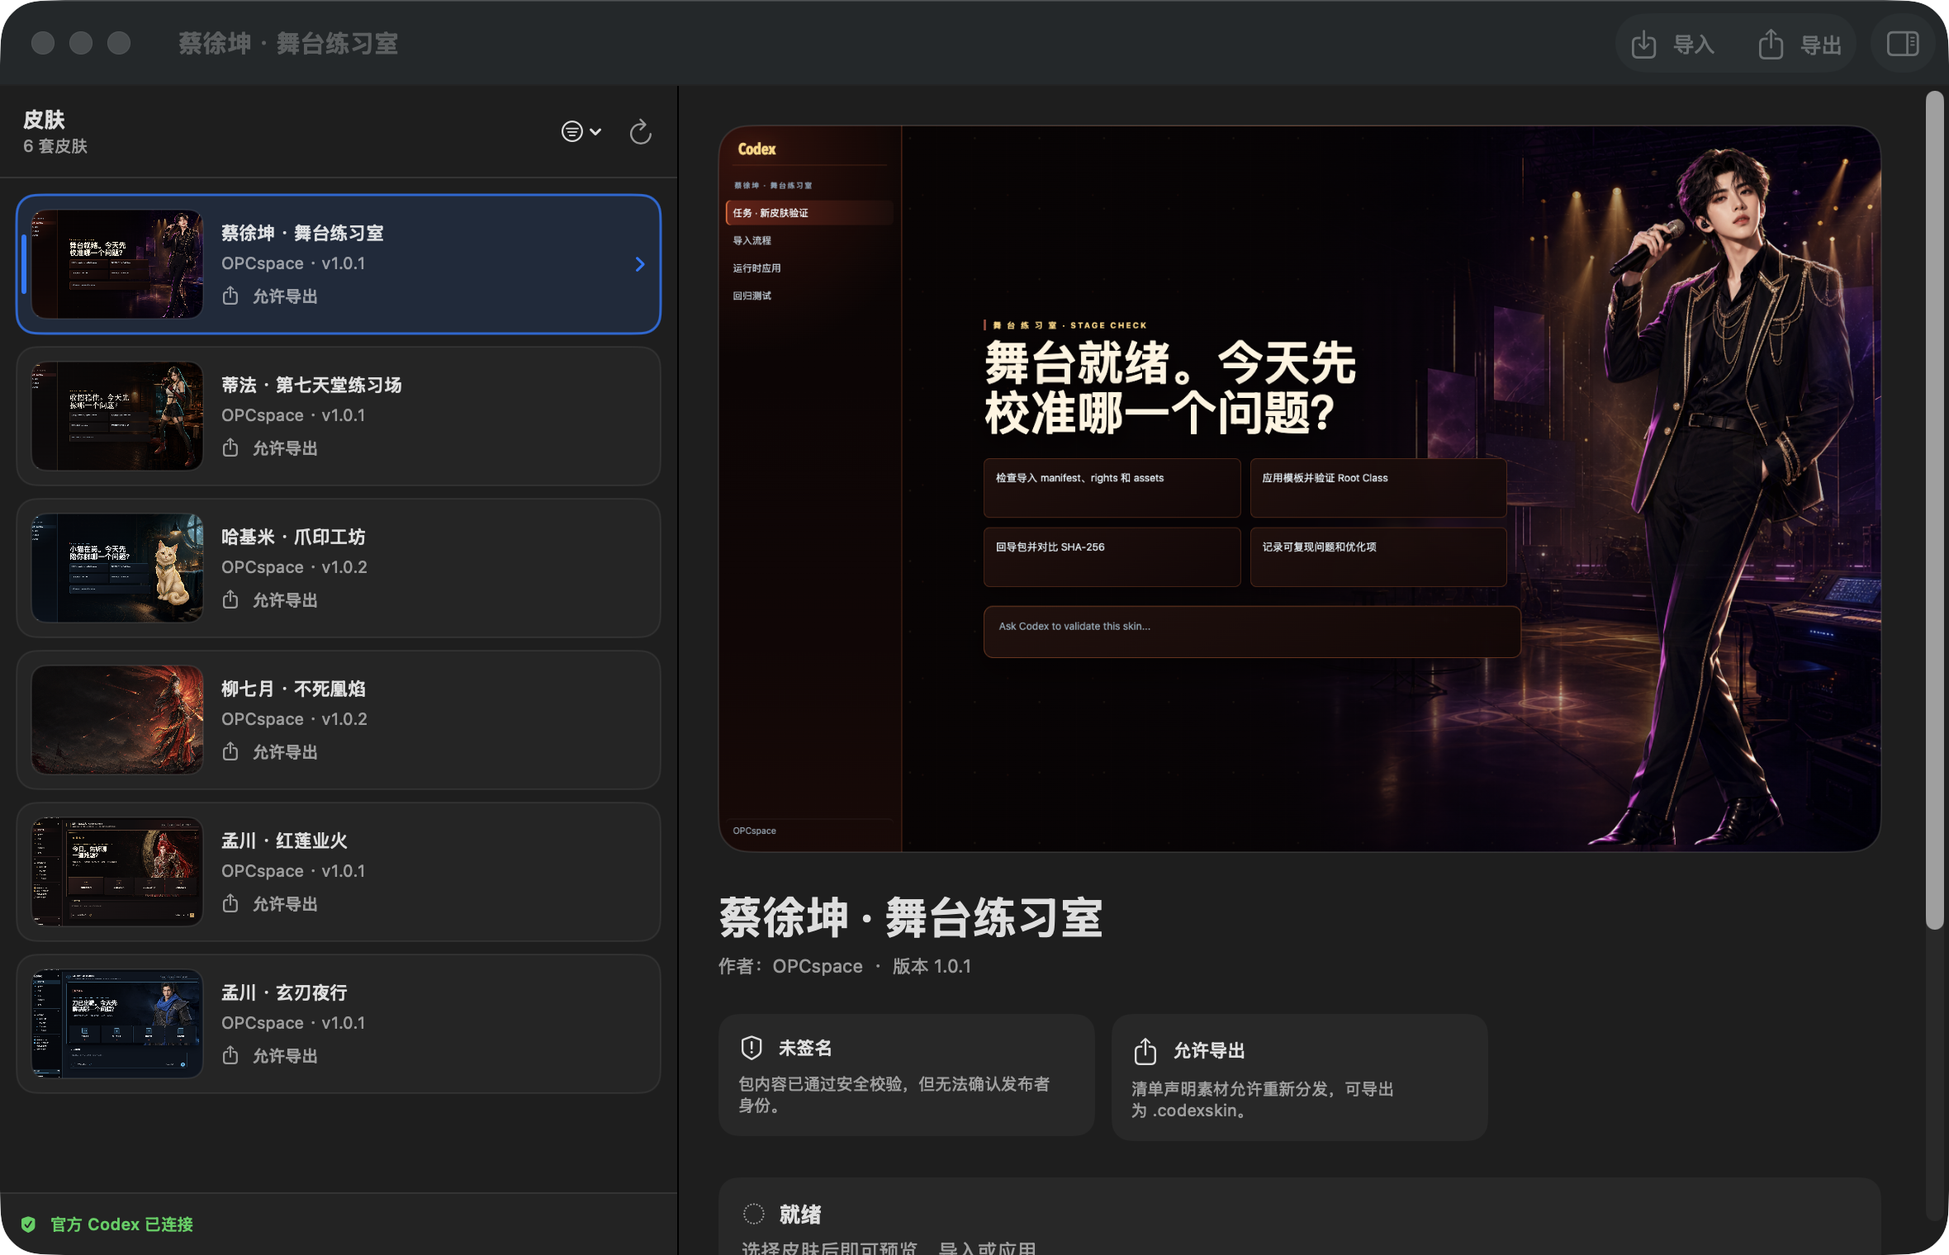
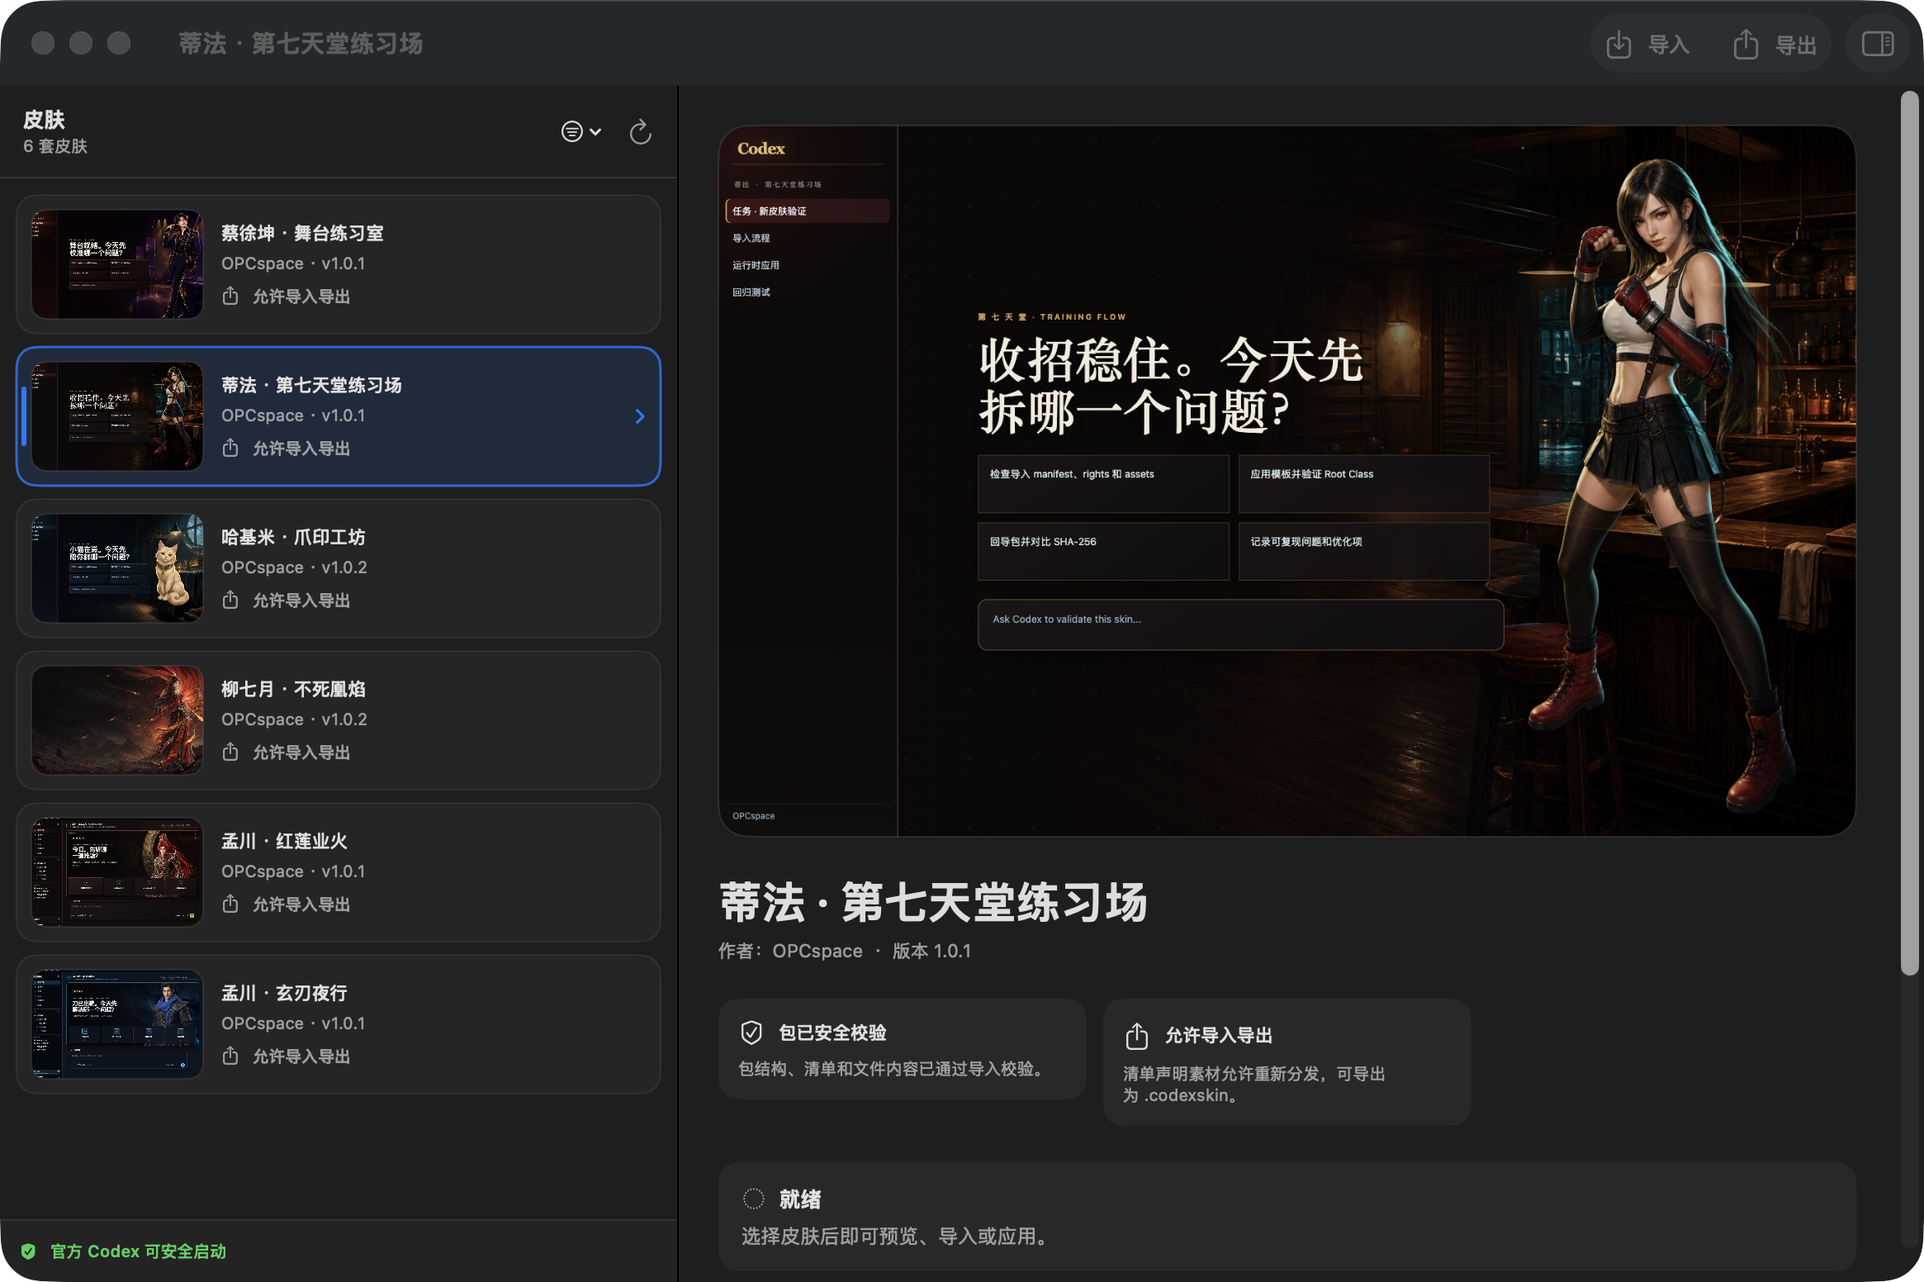
feat: allow exporting any installed skin

diff --git a/skin-manager/Tests/SkinCoreTests/AppPresentationTests.swift b/skin-manager/Tests/SkinCoreTests/AppPresentationTests.swift
@@ -4,10 +4,9 @@ import XCTest
 
 final class AppPresentationTests: XCTestCase {
     func testLibraryFiltersCoverInventoryAndSafetyStates() {
-        XCTAssertEqual(SkinLibraryFilter.allCases, [.all, .active, .privateOnly, .unverified])
+        XCTAssertEqual(SkinLibraryFilter.allCases, [.all, .active])
         XCTAssertEqual(SkinLibraryFilter.all.title, "全部皮肤")
         XCTAssertEqual(SkinLibraryFilter.active.title, "最近使用")
-        XCTAssertEqual(SkinLibraryFilter.privateOnly.systemImage, "lock.shield")
     }
 
     func testLibraryShowsOnlyTheLatestInstalledVersionForEachSkinIdentity() {
@@ -46,12 +45,9 @@ final class AppPresentationTests: XCTestCase {
 
     func testLibrarySummaryMakesFilteringAndTotalInventoryVisible() {
         let all = SkinLibrarySummaryPresentation(filter: .all, visibleCount: 3, totalCount: 3)
-        let privateOnly = SkinLibrarySummaryPresentation(filter: .privateOnly, visibleCount: 1, totalCount: 3)
 
         XCTAssertEqual(all.title, "皮肤")
         XCTAssertEqual(all.countLabel, "3 套皮肤")
-        XCTAssertEqual(privateOnly.title, "仅限本机")
-        XCTAssertEqual(privateOnly.countLabel, "1 / 3 套皮肤")
     }
 
     func testNavigatorItemProvidesCompactDecisionInformation() {
@@ -67,7 +63,7 @@ final class AppPresentationTests: XCTestCase {
 
         XCTAssertEqual(item.title, "孟川 · 红莲业火")
         XCTAssertEqual(item.metadata, "OPCspace · v1.0.1")
-        XCTAssertEqual(item.rightsLabel, "允许导出")
+        XCTAssertEqual(item.rightsLabel, "允许导入导出")
         XCTAssertEqual(item.activityLabel, "已验证生效")
         XCTAssertTrue(item.accessibilityLabel.contains("孟川 · 红莲业火"))
         XCTAssertTrue(item.accessibilityLabel.contains("已验证生效"))
@@ -111,7 +107,7 @@ final class AppPresentationTests: XCTestCase {
         XCTAssertTrue(transfer.canExport)
     }
 
-    func testFileTransferPresentationExplainsPrivateExportRestriction() {
+    func testFileTransferPresentationAllowsExportRegardlessOfRedistributionFlag() {
         let selected = installed(id: "private", rights: rights(redistributionAllowed: false))
         let actions = SkinActionAvailability(
             selected: selected,
@@ -122,9 +118,9 @@ final class AppPresentationTests: XCTestCase {
 
         let transfer = SkinFileTransferPresentation(actions: actions)
 
-        XCTAssertFalse(transfer.canExport)
-        XCTAssertEqual(transfer.exportSystemImage, "lock.fill")
-        XCTAssertEqual(transfer.exportHelp, "当前素材授权不允许导出共享")
+        XCTAssertTrue(transfer.canExport)
+        XCTAssertEqual(transfer.exportSystemImage, "square.and.arrow.up")
+        XCTAssertEqual(transfer.exportHelp, "导出所选皮肤为 .codexskin")
     }
 
     func testFileTransferPresentationDoesNotMistakeBusyStateForRightsLock() {
@@ -146,17 +142,17 @@ final class AppPresentationTests: XCTestCase {
 
     func testTrustAndRightsBadgesAreExplicit() {
         XCTAssertEqual(SkinTrustPresentation(.verifiedPublisher(fingerprint: "abc")).label, "发布者已验证")
-        XCTAssertEqual(SkinTrustPresentation(.signedUnknownPublisher(fingerprint: "abc")).label, "签名未知")
-        XCTAssertEqual(SkinTrustPresentation(.unsigned).label, "未签名")
+        XCTAssertEqual(SkinTrustPresentation(.signedUnknownPublisher(fingerprint: "abc")).label, "包已安全校验")
+        XCTAssertEqual(SkinTrustPresentation(.unsigned).label, "包已安全校验")
 
         let privateRights = rights(redistributionAllowed: false)
         let publicRights = rights(redistributionAllowed: true)
-        XCTAssertEqual(SkinRightsPresentation(privateRights).label, "仅限本机")
-        XCTAssertTrue(SkinRightsPresentation(privateRights).detail.contains("不可导出共享"))
-        XCTAssertEqual(SkinRightsPresentation(publicRights).label, "允许导出")
+        XCTAssertEqual(SkinRightsPresentation(privateRights).label, "允许导入导出")
+        XCTAssertTrue(SkinRightsPresentation(privateRights).detail.contains("自行确认素材权利"))
+        XCTAssertEqual(SkinRightsPresentation(publicRights).label, "允许导入导出")
     }
 
-    func testActionAvailabilityProtectsActiveAndPrivateSkins() {
+    func testActionAvailabilityProtectsActiveSkinButAllowsAnySelectedSkinToExport() {
         let selected = installed(id: "selected", rights: rights(redistributionAllowed: false))
         let other = ActiveSkinRecord(id: "other", version: "1.0.0")
         let ready = inspection(signatureValid: true)
@@ -172,9 +168,9 @@ final class AppPresentationTests: XCTestCase {
         XCTAssertEqual(actions.applyTitle, "切换到此皮肤")
         XCTAssertTrue(actions.canRestore)
         XCTAssertTrue(actions.canDelete)
-        XCTAssertFalse(actions.canExport)
+        XCTAssertTrue(actions.canExport)
         XCTAssertTrue(actions.canImport)
-        XCTAssertEqual(actions.exportDisabledReason, "当前素材授权不允许导出共享")
+        XCTAssertNil(actions.exportDisabledReason)
 
         let activeActions = SkinActionAvailability(
             selected: selected,
@@ -268,7 +264,7 @@ final class AppPresentationTests: XCTestCase {
 
         XCTAssertEqual(card.name, longName)
         XCTAssertEqual(card.author, longAuthor)
-        XCTAssertEqual(card.privateExportMessage, "仅供本机预览与使用，不可导出共享")
+        XCTAssertNil(card.privateExportMessage)
     }
 
     private func inspection(signatureValid: Bool) -> CodexAppInspection {

diff --git a/skin-manager/Sources/SkinCore/AppPresentation.swift b/skin-manager/Sources/SkinCore/AppPresentation.swift
@@ -6,14 +6,16 @@ public enum SkinLibraryFilter: String, CaseIterable, Identifiable, Sendable {
     case privateOnly
     case unverified
 
+    public static let allCases: [SkinLibraryFilter] = [.all, .active]
+
     public var id: String { rawValue }
 
     public var title: String {
         switch self {
         case .all: "全部皮肤"
         case .active: "最近使用"
-        case .privateOnly: "仅限本机"
-        case .unverified: "未验证来源"
+        case .privateOnly: "受限皮肤"
+        case .unverified: "来源提示"
         }
     }
 
@@ -21,8 +23,8 @@ public enum SkinLibraryFilter: String, CaseIterable, Identifiable, Sendable {
         switch self {
         case .all: "square.grid.2x2"
         case .active: "clock.arrow.circlepath"
-        case .privateOnly: "lock.shield"
-        case .unverified: "exclamationmark.shield"
+        case .privateOnly: "tray.full"
+        case .unverified: "checkmark.shield"
         }
     }
 
@@ -30,9 +32,7 @@ public enum SkinLibraryFilter: String, CaseIterable, Identifiable, Sendable {
         switch self {
         case .all: true
         case .active: activeRecord?.id == skin.id
-        case .privateOnly: !skin.rights.canExportPublicly
-        case .unverified:
-            if case .verifiedPublisher = skin.trust { false } else { true }
+        case .privateOnly, .unverified: true
         }
     }
 }
@@ -133,7 +133,7 @@ public struct SkinFileTransferPresentation: Equatable, Sendable {
     public init(actions: SkinActionAvailability) {
         canImport = actions.canImport
         canExport = actions.canExport
-        exportSystemImage = actions.exportIsRightsRestricted ? "lock.fill" : "square.and.arrow.up"
+        exportSystemImage = "square.and.arrow.up"
         exportHelp = actions.exportDisabledReason ?? "导出所选皮肤为 .codexskin"
     }
 }
@@ -150,13 +150,13 @@ public struct SkinTrustPresentation: Equatable, Sendable {
             detail = "签名指纹：\(fingerprint)"
             systemImage = "checkmark.seal.fill"
         case let .signedUnknownPublisher(fingerprint):
-            label = "签名未知"
-            detail = "签名有效，但发布者尚未受信任。指纹：\(fingerprint)"
-            systemImage = "questionmark.diamond"
+            label = "包已安全校验"
+            detail = "签名有效；发布者指纹：\(fingerprint)。"
+            systemImage = "checkmark.shield"
         case .unsigned:
-            label = "未签名"
-            detail = "包内容已通过安全校验，但无法确认发布者身份。"
-            systemImage = "exclamationmark.shield"
+            label = "包已安全校验"
+            detail = "包结构、清单和文件内容已通过导入校验。"
+            systemImage = "checkmark.shield"
         }
     }
 }
@@ -167,15 +167,11 @@ public struct SkinRightsPresentation: Equatable, Sendable {
     public let systemImage: String
 
     public init(_ rights: SkinRights) {
-        if rights.canExportPublicly {
-            label = "允许导出"
-            detail = "清单声明素材允许重新分发，可导出为 .codexskin。"
-            systemImage = "square.and.arrow.up"
-        } else {
-            label = "仅限本机"
-            detail = "当前素材授权不可导出共享，只能在本机预览和使用。"
-            systemImage = "lock.shield"
-        }
+        label = "允许导入导出"
+        detail = rights.canExportPublicly
+            ? "清单声明素材允许重新分发，可导出为 .codexskin。"
+            : "管理器允许导入和导出此皮肤；对外分享前请自行确认素材权利。"
+        systemImage = "square.and.arrow.up"
     }
 }
 
@@ -197,7 +193,7 @@ public struct SkinCardPresentation: Equatable, Sendable, Identifiable {
         previewURL = skin.previewURL
         trust = SkinTrustPresentation(skin.trust)
         rights = SkinRightsPresentation(skin.rights)
-        privateExportMessage = skin.rights.canExportPublicly ? nil : "仅供本机预览与使用，不可导出共享"
+        privateExportMessage = nil
     }
 }
 
@@ -227,10 +223,10 @@ public struct SkinActionAvailability: Equatable, Sendable {
         canApply = selected != nil && !busy && appReady
         canRestore = active != nil && !busy
         canDelete = selected != nil && !isSelectedActive && !busy
-        canExport = selected?.rights.canExportPublicly == true && !busy
+        canExport = selected != nil && !busy
         canImport = !busy
         canCancelWaiting = state == .waitingForQuit
-        exportIsRightsRestricted = selected != nil && selected?.rights.canExportPublicly != true
+        exportIsRightsRestricted = false
 
         if case .failed = state {
             applyTitle = "重试切换"
@@ -254,8 +250,6 @@ public struct SkinActionAvailability: Equatable, Sendable {
 
         if selected == nil {
             exportDisabledReason = "请先选择一个皮肤"
-        } else if selected?.rights.canExportPublicly != true {
-            exportDisabledReason = "当前素材授权不允许导出共享"
         } else if busy {
             exportDisabledReason = "当前操作完成后可继续"
         } else {

diff --git a/skin-manager/Tests/SkinCoreTests/SkinAuthoringPackagerCompatibilityTests.swift b/skin-manager/Tests/SkinCoreTests/SkinAuthoringPackagerCompatibilityTests.swift
@@ -6,7 +6,7 @@ import XCTest
 @testable import SkinCore
 
 final class SkinAuthoringPackagerCompatibilityTests: XCTestCase {
-    func testRepositoryValidationSkinsBuildImportAndRespectExportRights() async throws {
+    func testRepositoryValidationSkinsBuildImportAndExport() async throws {
         let repositoryRoot = URL(fileURLWithPath: #filePath)
             .deletingLastPathComponent()
             .deletingLastPathComponent()
@@ -20,33 +20,34 @@ final class SkinAuthoringPackagerCompatibilityTests: XCTestCase {
         let exporter = SkinPackageExporter()
         defer { try? FileManager.default.removeItem(at: temporaryRoot) }
 
-        let expected: [(id: String, canExport: Bool)] = [
-            ("hakimi-paw-atelier", true),
-            ("cai-xukun-stage-check", false),
-            ("tifa-seventh-heaven-flow", false),
-        ]
+        let expectedIDs = try FileManager.default.contentsOfDirectory(
+            at: sourceRoot,
+            includingPropertiesForKeys: [.isDirectoryKey],
+            options: [.skipsHiddenFiles]
+        )
+        .filter { url in
+            (try? url.resourceValues(forKeys: [.isDirectoryKey]).isDirectory) == true
+                && FileManager.default.fileExists(atPath: url.appending(path: "skin.json").path)
+        }
+        .map(\.lastPathComponent)
+        .sorted()
 
-        for skin in expected {
-            let source = sourceRoot.appending(path: skin.id, directoryHint: .isDirectory)
-            let output = temporaryRoot.appending(path: "\(skin.id).codexskin")
+        XCTAssertFalse(expectedIDs.isEmpty)
+
+        for skinID in expectedIDs {
+            let source = sourceRoot.appending(path: skinID, directoryHint: .isDirectory)
+            let output = temporaryRoot.appending(path: "\(skinID).codexskin")
             try runPackager(builder: builder, source: source, output: output, currentDirectory: repositoryRoot)
 
             let imported = try SkinPackageImporter().importPackage(
                 data: Data(contentsOf: output, options: .mappedIfSafe)
             )
-            XCTAssertEqual(imported.manifest.id, skin.id)
-            XCTAssertEqual(imported.rights.redistributionAllowed, skin.canExport)
+            XCTAssertEqual(imported.manifest.id, skinID)
             XCTAssertEqual(imported.trust, .unsigned)
 
             _ = try await repository.install(imported)
             let stored = try await repository.load(id: imported.manifest.id, version: imported.manifest.version)
-            if skin.canExport {
-                XCTAssertNoThrow(try exporter.data(for: stored))
-            } else {
-                XCTAssertThrowsError(try exporter.data(for: stored)) { error in
-                    XCTAssertEqual(error as? SkinExportError, .redistributionNotAllowed)
-                }
-            }
+            XCTAssertNoThrow(try exporter.data(for: stored))
         }
     }
 

diff --git a/skin-manager/Tests/SkinCoreTests/SkinPackageExporterTests.swift b/skin-manager/Tests/SkinCoreTests/SkinPackageExporterTests.swift
@@ -3,15 +3,17 @@ import XCTest
 @testable import SkinCore
 
 final class SkinPackageExporterTests: XCTestCase {
-    func testRefusesToExportAPrivateOnlySkin() async throws {
+    func testExportsAnyInstalledSkinRegardlessOfRedistributionFlag() async throws {
         let repository = SkinRepository(rootURL: temporaryRoot())
         let imported = try SkinPackageImporter().importPackage(data: SkinImportFixture.make().archive)
         let installed = installedValue(try await repository.install(imported))
         let stored = try await repository.load(id: installed.id, version: installed.version)
 
-        XCTAssertThrowsError(try SkinPackageExporter().data(for: stored)) { error in
-            XCTAssertEqual(error as? SkinExportError, .redistributionNotAllowed)
-        }
+        let exported = try SkinPackageExporter().data(for: stored)
+        let reimported = try SkinPackageImporter().importPackage(data: exported)
+
+        XCTAssertEqual(reimported.manifest.id, installed.id)
+        XCTAssertFalse(reimported.rights.redistributionAllowed)
     }
 
     func testExportIsDeterministicContainsOnlyDataAndRoundTrips() async throws {

diff --git a/skin-manager/Sources/SkinCore/SkinPackageExporter.swift b/skin-manager/Sources/SkinCore/SkinPackageExporter.swift
@@ -2,14 +2,12 @@ import CryptoKit
 import Foundation
 
 public enum SkinExportError: Error, Equatable, LocalizedError, Sendable {
-    case redistributionNotAllowed
     case invalidDestination
     case fileTooLarge(String)
     case missingFile(String)
 
     public var errorDescription: String? {
         switch self {
-        case .redistributionNotAllowed: "素材许可不允许公开导出此皮肤"
         case .invalidDestination: "导出文件必须使用 .codexskin 扩展名"
         case let .fileTooLarge(path): "导出文件超过 ZIP v1 限制：\(path)"
         case let .missingFile(path): "已安装皮肤缺少文件：\(path)"
@@ -21,9 +19,6 @@ public struct SkinPackageExporter: Sendable {
     public init() {}
 
     public func data(for package: StoredSkinPackage) throws -> Data {
-        guard package.rights.canExportPublicly else {
-            throw SkinExportError.redistributionNotAllowed
-        }
         let originalDescriptors = Dictionary(uniqueKeysWithValues: package.manifest.files.map { ($0.path, $0) })
         var descriptors: [SkinFile] = []
         for path in package.files.keys.sorted() {

diff --git a/tests/test_codex_skin_manager_bundle.py b/tests/test_codex_skin_manager_bundle.py
@@ -50,7 +50,7 @@ def inspect_bundle(app: Path) -> None:
         plist = plistlib.load(handle)
     assert plist["CFBundleIdentifier"] == "com.opcspace.codex-skin-manager"
     assert plist["CFBundleExecutable"] == "CodexSkinManager"
-    assert plist["CFBundleShortVersionString"] == "1.1.2"
+    assert plist["CFBundleShortVersionString"] == "1.1.3"
     assert plist["CFBundleVersion"] == "3"
     assert plist["CFBundleIconFile"] == "AppIcon"
     assert plist["LSMinimumSystemVersion"] == "13.0"

diff --git a/docs/skin-manager/PRODUCT_PRINCIPLES.md b/docs/skin-manager/PRODUCT_PRINCIPLES.md
@@ -37,7 +37,7 @@
 
 ### 4. 风险信息在操作前出现
 
-皮肤详情必须明确显示发布者信任状态、素材使用权和导出限制。未经授权的素材只能本机使用；允许公开分发的皮肤也必须保留非商用、同人、无背书和第三方权利边界。
+皮肤详情必须明确显示包校验状态和素材使用权。App 不因签名状态或权利声明阻止导入、切换、导出；公开发布和对外分享仍必须保留非商用、同人、无背书和第三方权利边界。
 
 ### 5. 默认可逆
 
@@ -45,7 +45,7 @@
 
 ### 6. 键盘与鼠标同等高效
 
-同一对象的相反操作应放在一起。`.codexskin` 的导入与导出并排出现在顶部工具栏，不再分散在资料库底部和详情菜单；受授权限制时，导出入口保留位置并解释原因，而不是静默消失。
+同一对象的相反操作应放在一起。`.codexskin` 的导入与导出并排出现在顶部工具栏，不再分散在资料库底部和详情菜单；导出入口保持稳定，权利信息作为分享提醒展示，而不是阻断本地流程。
 
 主要路径保留快捷键：`⌘O` 导入、`⇧⌘E` 导出、`⌘↩` 切换或重新应用、`⇧⌘R` 恢复默认。
 

diff --git a/docs/skin-manager/AUTHORING.md b/docs/skin-manager/AUTHORING.md
@@ -149,7 +149,7 @@ open -a "$HOME/Applications/Codex 皮肤管理器.app" \
   "/绝对路径/sample-night-skin-1.0.0.codexskin"
 ```
 
-管理器会再次执行完整包校验和图片安全解码。通用打包器当前生成未签名包，因此信任状态显示为“未签名”；这不等同于允许公开分发，公开导出仍由 `rights.redistributionAllowed` 控制。
+管理器会再次执行完整包校验和图片安全解码。通用打包器生成的包只要结构、清单和文件内容通过校验，就可以导入、切换和从 App 导出；`rights.redistributionAllowed` 只作为公开分享与 Release 发布前的权利判断依据。
 
 ## 权利边界
 
